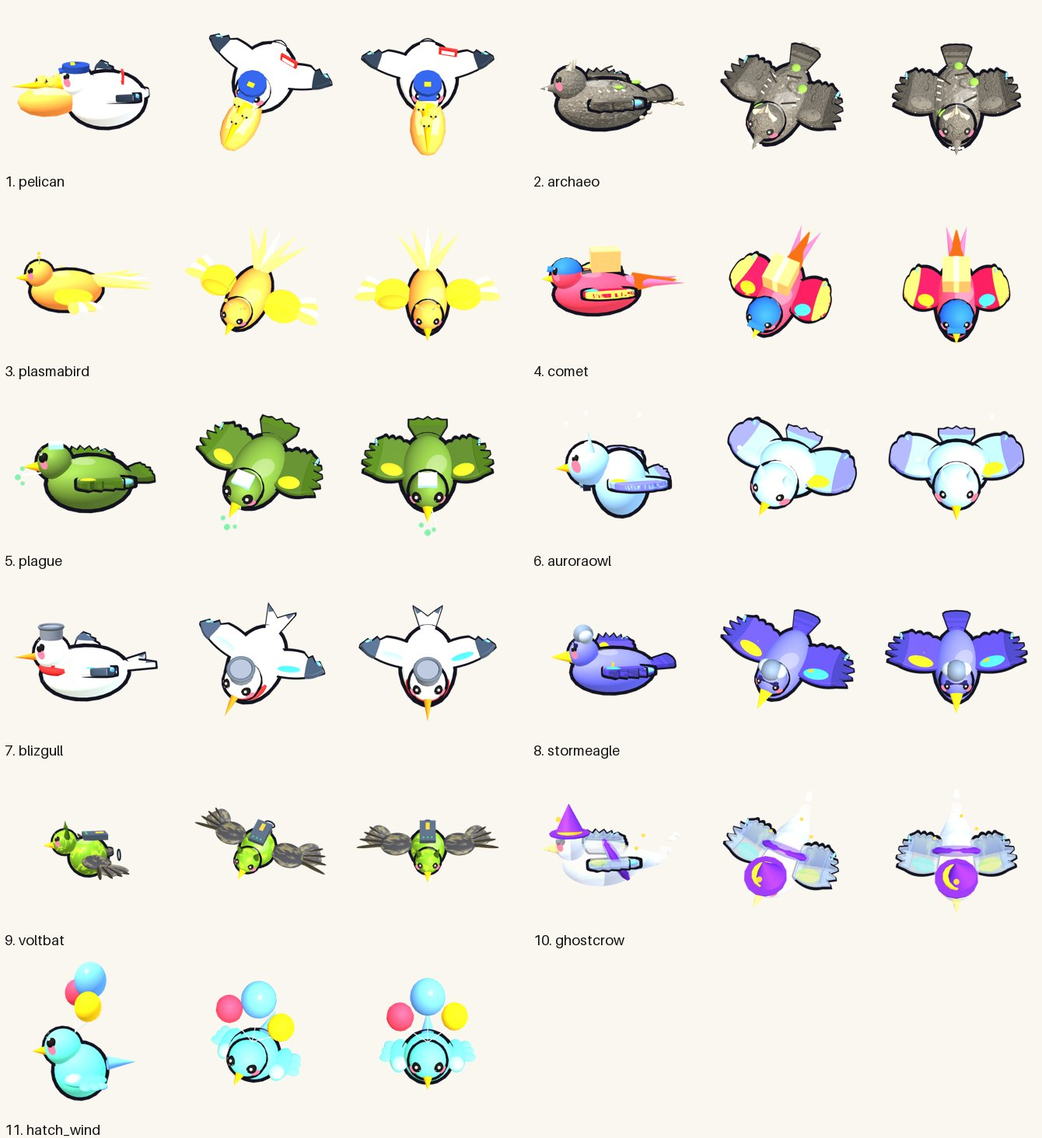
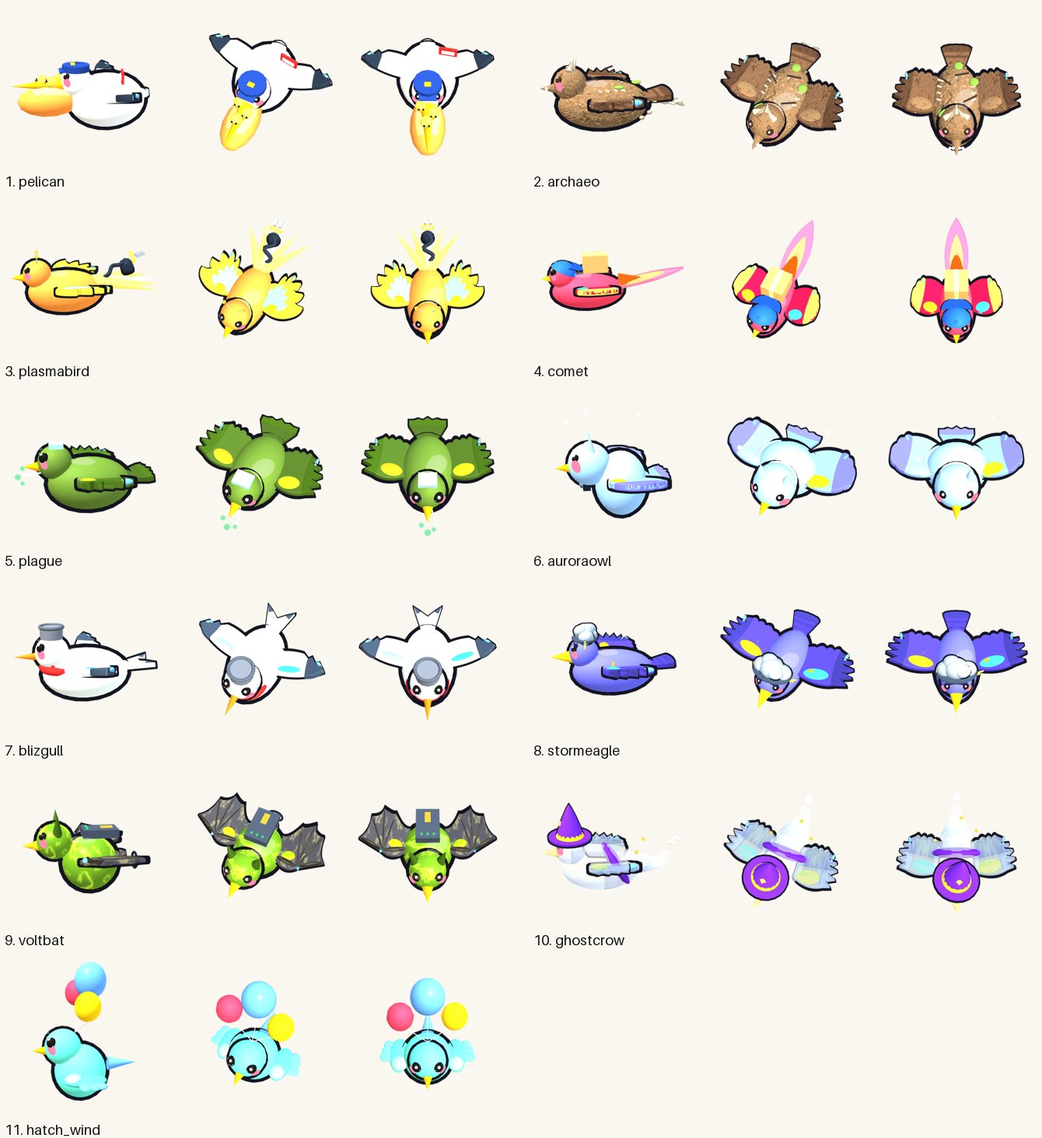
v17.8 색 다듬기: 공중 시조새 호박색 화석, 티라노 병아리 주황 + 디자인 문서 최종 시트
Claude-Session: https://claude.ai/code/session_01WdwmgQ1X9No8TXxhVpqQwz

diff --git a/index.html b/index.html
@@ -100,7 +100,7 @@
 <div id="tipm" class="dexm"><div class="dexh"><b>💡 게임 설명 · 팁</b><button id="tipx">✕ 닫기</button></div><div class="tipb"><div class="card"><b style="font-size:17px">📌 기본 설명</b><ul class="bs"><li>🎲 유닛을 보내면 상대 진영 입구 7칸 중 랜덤 1곳에서 출발하고, 보낼 때마다 4초마다 받는 인컴이 영구 증가해요.</li><li>🔮 속성 5종 중 2개를 골라요. 첫 속성은 무료, 두 번째는 300G이고 조합마다 전용 타워와 새가 열려요.</li><li>⏰ 7분부터 탈출한 새의 피해가 2배, 9분부터 3배가 돼요.</li><li>👀 도감 확인과 상대 정찰이 중요해요. 미니맵을 눌러 다른 진영을 보세요.</li></ul></div><div class="card"><b style="font-size:17px">🐦 새 능력 · 상성</b><ul class="bs"><li>🛡 <b>보호막</b>(백조·혜성 매·오로라 올빼미·야근 올빼미·근위 황새): 보호막이 남아 있는 동안 독·화상·감속이 안 통해요. <b>⚡ 뇌전 공격은 보호막을 2배로 깎아요.</b></li><li>❤ 새 체력바 색 = 그 새를 <b>보낸 사람의 팀 색</b>이에요(원형 지도 색과 같아요).</li><li>🦉 <b>부엉이 CCTV</b>: 은신 새를 보이게 하고, 범위 안 송골매는 회피를 못 해요(과속 단속 벌금 +15G).</li><li>🐝 벌새 떼는 강타형 타워 피해를 절반만 받아요 → <b>광역 타워</b>로 막아요. AI가 가끔 떼로 몰아 보내요!</li><li>💢 앵무새·😵 대머리 독수리·💩 갈매기는 타워를 잠깐 멈추거나 느리게 해요. 타워 머리 위 표시를 보세요.</li></ul></div><div class="card"><b style="font-size:17px">🪶 깃털 · 영웅 · 광장</b><ul class="bs"><li>🪶 깃털: 우승하면 난이도별 2~8개, 져도 2~4등 2개 · 5~8등 1개. 영웅을 여는 데 써요.</li><li>🐣 제작 영웅은 한 달 한정 판매예요. 🛒 상점에서 개발자 응원 팩·영웅 제작권을 살 수 있어요(플레이 스토어 앱에서만).</li><li>🏞 광장에 들어가면 광장 코드가 생겨요. 📨 초대로 링크를 보내면 친구가 바로 들어와요(최대 8명).</li></ul></div><div class="card"><b style="font-size:17px">🏹 타워 성격</b><ul class="bs"><li>⚡ <b>연사형</b>(공격 간격 0.8초 이하): 계속 쏠수록 공속이 최대 +50%까지 빨라지고, 적이 없으면 천천히 식어요.</li><li>💥 <b>강타형</b>(1.5초 이상): 3번째 공격마다 치명타 ×2, 맞은 새의 최대 체력 3%를 추가로 깎아요. 덩치 큰 새 담당!</li><li>☠ <b>독</b>: 맞을 때마다 독이 최대 5중첩. 광역 독 타워는 초록 독연기를 2.5초 남겨 지나가는 새에게 계속 독을 묻혀요.</li><li>🔥 <b>화상</b>: 중첩은 없지만 강하고, 불탄 채 쓰러지면 옆 새에게 불이 옮겨붙어요.</li><li>💰 강화 비용이 레벨마다 가파르게 올라요(1→2: 105%, 2→3: 252%, 3→4: 441%). 무작정 강화보다 배치가 중요해요.</li></ul></div>
 <h3>🪶 모드 · 깃털 코인</h3><ul class="bs"><li>🐥 <b>일반 모드</b>: 종족 없이 모든 새·타워를 공용으로 써요.</li><li>🪶 <b>승리하면 깃털 코인</b>을 얻어요. 난이도가 높을수록 많이 줘요.</li><li>🏰 코인을 모으면 <b>종족 모드</b>를 해금하고 종족 1개를 무료로 고를 수 있어요. 이후 종족은 코인으로 하나씩 해금해요.</li></ul>
 <h3>📌 게임 규칙 전체</h3><ul class="bs"><li>🏰 시작 전에 <b>종족</b>을 골라요. 종족마다 전용 타워 2종, 전용 새 2종, 고유 특성이 달라요. 상대 AI도 각자 다른 종족으로 나와요.</li><li>🎲 유닛을 보내면 상대 진영 입구 7칸 중 랜덤 1곳에서 출발해요.</li><li>💰 유닛을 보낼 때마다 4초마다 받는 인컴이 영구 증가해요.</li><li>⬡ 타일이 육각형이라 유닛이 6방향으로 길을 찾아요.</li><li>🔮 속성 5종(화염·빙결·뇌전·폭풍·독) 중 2개를 골라요. 첫 속성은 무료, 두 번째는 300G예요.</li><li>✨ 두 속성의 조합마다 전용 타워와 새가 열려요 (10가지 조합).</li><li>🌟 속성 2개를 고르면 조합 스킬을 1500G에 해금할 수 있어요 (미니맵 위 버튼).</li><li>⏰ 7분부터 탈출한 새의 피해가 2배, 9분부터 3배가 돼요.</li><li>📖 <b>도감 확인은 필수예요!</b> 새·타워의 숨은 능력, 속성 조합, 수상한 알의 비밀까지 도감에서 확인하세요.</li><li>👀 <b>상대 정찰도 중요한 전략이에요.</b> 미니맵을 눌러 다른 진영의 미로와 타워를 보고, 잘 뚫릴 새를 골라 보내세요.</li><li>🚫 첫 줄·마지막 줄에는 건설할 수 없고, 길을 완전히 막을 수 없어요.</li><li>🎯 적을 처치하면 유닛 가격의 10%를 보상으로 받아요.</li></ul>
-<h3>🛠 업데이트 내역</h3><details class="card" open><summary><b>🛠 패치 노트</b> <small class="m">(눌러서 펼치기)</small></summary><ul><li><b>v17.7</b> 🎩 칠면조는 금 버클 순례자 모자, 철거반장 두루미는 줄무늬 안전모, 유령까마귀는 별 달린 마법사 모자로 새로 만들었어요. 🧢 알바트로스·혜성 매는 모자를 거꾸로 써서 얼굴이 잘 보여요.</li><li><b>v17.6</b> 🔥 불사조·플라즈마새 날개를 불꽃 모양으로, 🦇 볼트박쥐 날개를 진짜 박쥐 날개(뼈+막)로 바꿨어요. 이제 모든 공중 새가 새 날개를 써요. 🪶 앵무새는 빨강·파랑 긴 꼬리깃, 혜성 매는 반짝이는 혜성 꼬리가 생겼어요.</li><li><b>v17.5</b> ☁ 천둥새·폭풍독수리의 먹구름 모자를 몽글몽글한 구름(외곽선·작은 번개)으로, 🔌 천둥새·플라즈마새 꼬리의 회색 벽돌을 꼬불꼬불 전선이 달린 플러그로 바꿨어요.</li><li><b>v17.4</b> 🪶 공중 새 날개를 종류별로 새로 만들었어요 — 맹금형(까마귀·송골매·역병 까마귀·폭풍독수리·시조새·유령까마귀), 바다새형(알바트로스·눈보라 갈매기·펠리컨), 둥근 작은 새형(비둘기·앵무·혜성 매·오로라 올빼미). 날개에 있던 하늘색 팀 띠는 모두 빼고 날개 끝 깃 하나만 팀 색으로 남겼어요.</li><li><b>v17.3</b> 🦅 독수리·북극해적갈매기 날개를 맹금 날개로 바꿨어요 — 넓고 짧은 한 장에 끝이 손가락처럼 벌어진 깃 5개(해적 칼은 그대로 날개 끝에). 🪶 공중 새 꼬리도 새로 만들었어요: 부채형(비둘기·까마귀 등)·제비꼬리형(갈매기·알바트로스 등)·맹금형(독수리·송골매 등, 끝 띠무늬)·짧은형(펠리컨·박쥐). 머리 뒤 '토끼 귀'처럼 보이던 하늘색 팀 색 깃은 꼬리에서 뺐어요.</li><li><b>v17.2</b> 🌊 폭격갈매기 날개를 새로 만들었어요(시범) — 한 장으로 된 길쭉한 바다새 날개에 검은 날개 끝·검은 외곽선, V자로 살짝 들어 올렸어요. 팀 색은 날개 끝 깃 하나에만.</li><li><b>v17.1</b> 🗡 북극해적갈매기 칼을 새로 만들었어요 — 휜 은색 해적 칼(금 가드·나무 손잡이·검은 외곽선)을 오른 날개 끝에 쥐고 같이 퍼덕여요. 모자는 조금 작게, 뒤로 옮겨 얼굴이 보여요.</li><li><b>v17.0</b> ⚔ 수비 오프닝 알파고가 달라졌어요 — 처음 40~50초는 칠면조로 인컴을 열고, 그다음 초반에 새를 잘 잡는 공격형 타워(독감 물약·용암·정전기·알 새총 등)를 먼저 지어요. 파리지옥·얼음 알 같은 서포트 타워는 나중에.</li><li><b>v16.9</b> 🆕 새 알파고 10종(전봇대 줄·독 덩굴·감속 미로·3줄 요새·태양 화염·뇌운 폭풍·알 폭격·플라즈마 장인·대형 새 러시·빙뢰 첨탑) — 어려움·헬에 매 판 2~3명, 알파고 난이도엔 가장 강한 3종이 섞여요. 알파고마다 초반 오프닝이 달라요(전봇대·벽 0개·수비 타워·해적·칠면조·알·비둘기). 숙련 이상 AI는 타워를 Lv4까지 올려요(미로를 먼저 짓고). 겹치던 알파고 6종은 정리했어요.</li><li><b>v16.8</b> 🥚 알파고가 알·부화 병아리에 뚫리면 광역·연쇄 타워·참새 전봇대·감속 타워를 더 짓고, 평소에도 감속과 전봇대를 조금 더 좋아해요(사람 기록으로 210판 학습, 알파고 난이도만).</li><li><b>v16.7</b> 📋 알파고 기록이 더 자세해졌어요 — 30초마다 8명의 목숨, 내 진영에 들어온·뚫고 간 새 종류, 판 끝에 타워 종류별 피해량·개수까지 남고, 보관이 최근 20판으로 늘었어요(알파고 학습용).</li><li><b>v16.6</b> 🦃 알파고가 초반 3분을 사람처럼 써요 — 알파고마다 오프닝이 달라요(🏴☠ 해적갈매기 러시 · 해적 1마리 후 칠면조 · 🥚 알 타워 철거 후 칠면조 · 칠면조만 · 싼 타워 2개+칠면조 · 가성비 새) · 속성 조합도 서로 겹치지 않아요. 목숨이 80 아래로 떨어지거나 인컴이 충분해지면 수비로 바꿔요. 알파고 난이도에서만.</li><li><b>v16.5</b> 🧬 알파고 난이도 설명에 지금까지 학습한 판 수(약 12,400판: AI끼리 대국 + 사람 플레이 기록)를 넣었어요.</li><li><b>v16.4</b> 👆 알파고가 사람처럼 "꾹 누르기"를 해요 — 새를 고르면 남는 돈을 다 쓸 때까지 같은 새를 연속으로 보내요(싼 알은 수십 마리씩). 수비가 모자라면 타워를 먼저 지어요. 다른 난이도는 그대로예요.</li><li><b>v16.3</b> 🤖 알파고가 더 부지런해졌어요 — 0.4초 → 0.3초마다 판단하고 한 번에 2가지씩(분당 행동 약 58번 → 약 70번). 다른 난이도는 그대로예요.</li><li><b>v16.2</b> 🤖 알파고 난이도만 학습 — 사람 플레이 기록 7판을 그대로 따라 하는 연습 상대와 붙어 진화한 「알파 사람 사냥꾼」 등 8종이 먼저 나와요(연습 상대 우승 28판 중 13번 → 1번). 알파고 AI도 이제 사람처럼 수상한 알 연구(부화 등)를 써요(공평하게). 다른 난이도는 그대로예요.</li><li><b>v16.1</b> 🗺 타워를 고르면 설치 안내가 떠요 — 초록 테두리 칸은 지을 수 있는 곳, 빨간 칸은 지으면 길이 막히는 곳, 노란 점선은 지금 새가 지나갈 길(첫 탭 미리보기 칸을 놓았을 때 길로 바로 다시 그려져요). ⏸ 메뉴에서 끌 수 있어요. 다른 진영을 구경할 때는 미니맵에 🏠 내 진영이 나오고, 누르면 바로 돌아와요.</li><li><b>v16.0</b> 📱 폰 조작 2차 — 붉은 알림이 게임판 첫 줄을 가리지 않게 아래로(⏸ 메뉴에서 아래·위·끄기), 유닛 카드를 길게 누르면 연속 전송, 타워 카드를 길게 누르면 정보, 효과음·배경음악 볼륨 따로, 목숨 30 이하면 화면 테두리 빨갛게+경고, 작은 폰에서 상점 카드 크게.</li><li><b>v15.9</b> 📱 폰 조작 개선 — 뒤로가기·⏸를 누르면 일시정지 메뉴(계속하기·설정·나가기 두 번 확인), 앱을 내리면 자동 일시정지, 게임 중 화면 꺼짐 방지, 타워 2단계 설치(첫 탭 미리보기+사거리 원, 한 번 더 누르면 설치 · 메뉴에서 끄기), 진동 피드백, 버튼 크게, 마지막 난이도 기억, 실수로 화면 확대 방지, 구형 폰에서 깨지던 이모지 교체.</li><li><b>v15.8</b> 📼 알파고 난이도 플레이 기록 — 내가 지은 타워·보낸 새·속성을 폰에만 기록하고(최근 10판), 결과 화면 '📋 내 기록 보내기'로 파일을 보낼 수 있어요. 사람 전략을 배우는 알파고 학습에 써요.</li><li><b>v15.7</b> 🎯 쉬움·일반·숙련 AI의 초반 수비가 똑똑해졌어요 — 완성될 미로를 미리 계산해, 길을 많이 덮는 자리에 공격 타워 2개를 먼저 띄엄띄엄 놓고 그다음 벽으로 미로를 채워요(초반 3분 누수 약 20~40% 감소).</li><li><b>v15.6</b> 🧬 알파고 5세대 학습(660판) — 약했던 알파 안정형·방해꾼 특공대·빙결뇌전·이자형·장인이 상위 전략의 유전자를 배워 강해졌고(안정형 6.9등→3.0등, 장인 5.2등→2.3등), 상위 전략을 섞은 새 성향 「알파 5세대」가 나와요. 일반·숙련·어려움·헬 AI도 새 노하우를 배워요.</li><li><b>v15.5</b> 💀 탈락해도 새들이 한꺼번에 다음 판으로 순간이동하지 않아요 — 탈락한 판의 타워는 그대로 남아 공격만 멈추고, 새들이 걸어서 지나간 뒤 다음 판으로 넘어가요(몰림 완화).</li><li><b>v15.4</b> 🧱 후반 AI 헛손질 고침 — 두루미 복구가 빈칸 채우기로 지은 타워까지 부수고 다시 짓던 반복을 없앴고(10분 뒤 철거 4분의 1로), 빈칸 채우기는 벽 대신 길을 덮는 공격 타워만 지어요. 돈이 2만 넘게 쌓이면 새부터 보내고, 재배치 미로는 10분까지만.</li><li><b>v15.3</b> 🦩 새 독 속성 새 「플라맹독」(540G·지상·외다리): 4초마다 근처 타워에 산성 침을 퉤! → 그 타워 공격력 -30%(4초) · 흡혈박쥐새는 은퇴했어요</li><li><b>v15.2</b> 🦇 박쥐 둥지 타워를 없앴어요</li><li><b>v15.1</b> 🏰 종족 모드는 잠시 닫았어요(준비 중) · 🛒 상점 판매도 잠시 닫았어요</li><li><b>v15.0</b> 🐣 수상한 알은 보낸 지 6초 뒤 부화 · 🔋 찌릿 병아리: 타워 마비 대신 이동 속도가 가장 빨라졌어요(1.8→2.4)</li><li><b>v14.9</b> 🧱 헬·알파고 AI 빈칸 채우기 버그 수정(타워 42개 미만이면 안 채우던 문제) · 채우기 시작 시각은 AI 성향마다 달라요(수비형은 3분쯤부터, 공격·인컴형은 15분쯤부터)</li><li><b>v14.8</b> 🥚 수상한 알: 보낼수록 체력 +1이 이제 끝없이 쌓여요 · 🐣 부화는 판 중간 대신 보낸 지 2초 뒤(미로에서도 부화) · 부화한 병아리는 알 보너스 체력의 2배를 더 받아요 · 속성이 2개면 두 속성 병아리가 섞여 나와요</li><li><b>v14.7</b> 🏴☠ 북극해적갈매기 새 디자인: 둥근 해적 모자(금테·물고기 뼈 문양)·안대·휜 회색 부리·큰 해적 칼·해골 버클 허리띠와 금화 주머니·흰 날개깃</li><li><b>v14.6</b> 🏗 철거반장 두루미 대응: 흐트러진 미로를 다시 고쳐요(숙련 가끔·어려움 자주·헬·알파고 항상) · 두루미가 오면 미로 타워를 3레벨로 올려 못 들게 · 알파고는 복구할지 빈칸을 채울지 스스로 판단 · 🧱 헬·알파고 AI는 타워 한도 없이 빈칸까지 채워요(어려움 60·숙련 50) · 💰 돈이 넘치면 AI가 한 번에 더 많이 써요</li><li><b>v14.5</b> 🧠 AI가 상황을 보고 판단해요: 목숨을 잃으면 수비 모드·후반엔 공격 조금 더(상황별 전략) · 어떤 새에 뚫렸는지 기억해 그 새를 막는 타워와 출구 쪽 자리를 고름(실패에서 배우기) · 🔀 새 AI '유동 수비': 초반 중앙에 타워 4개 → 인컴 340쯤 미로로 전환 → 새는 비율을 보고 인컴/수비 선택(숙련 AI가 배움) · 새 알파고 '알파 상황판단'·'알파 유동 수비'</li><li><b>v14.4</b> 🧱 알파고 새 수비 배치: 타워 2줄·3줄 가로 뱀, 2·3줄 섞은 뱀, 2줄 뱀+직선 통로 (긴 미로와 섞어서 매 판 다르게)</li><li><b>v14.3</b> 🦉 AI가 CCTV를 미로 통로에 지어 미로를 망가뜨리던 문제 수정(이제 미로의 벽 자리에만, 벽을 CCTV로 바꾸기도 함) · ⬆ AI는 미로를 다 쌓은 뒤에 업그레이드·벽 교체를 해요</li><li><b>v14.2</b> 🧠 AI 수비가 똑똑해졌어요: 🦉 CCTV를 서로 떨어뜨려 배치 · 🧱→🏹 미로를 다 쌓으면 길 옆 벽을 공격 타워로 교체 · ♻ 쓸모없는 싼 타워를 철거하고 강한 타워로 재건 · ⬆ 길을 많이 덮는 타워부터 조금씩 업그레이드 · 🎯 들어오는 새(공중·보호막·떼·튼튼)를 보고 타워 선택 · 🤖 새 알파고 '알파 전략가'</li><li><b>v14.1</b> 🏁 결과 화면: 다시 도전·나가기·관전 버튼이 4초 뒤에 나와요(결과 먼저 보기) · 💰 총 획득 골드(인컴+처치 보상 등, 시작 돈 제외)를 결과 표와 요약에 표시</li><li><b>v14.0</b> 🤖 AI 개편: 대형 새 모으기 없앰(1~2분씩 멈추던 문제) · AI가 같은 새만 사지 않고 여러 새를 섞어 보냄 · 닭둘기(비둘기)·까마귀도 보냄 · 특수 전략 알파고 6종 추가(🦃 칠면조 철거·🕊 닭둘기 부대·🌈 잡식 인컴·🥚 수상한 알·🛡 보호막 기사단·🎭 방해꾼 특공대) · 어려움·헬 이자형 AI는 시작하자마자 알 타워를 철거하고 칠면조를 보내요</li><li><b>v13.9</b> ❄🌪 약한 타워 공격력 1.3배: 얼음 알 15→20 · 산들 풍차 14→18 · 비눗방울 기계 30→39 · 눈폭풍 소용돌이 6→8</li><li><b>v13.8</b> 🥚 수상한 알이 보낼수록 단단해져요: 알 1개 보낼 때마다 다음 알 체력 +1(최대 +100, 보낸 사람마다 따로 셈) · 🦚 공작새 치유가 체력 높은 새의 체력을 깎던 문제 수정</li><li><b>v13.7</b> 💰 AI 돈 보너스 줄임(알파고는 나와 같은 돈) · 🤖 3세대 알파고(뇌전+화염 공격형) · 🦩 AI가 후반에 돈을 모아 펠리컨·시조새 같은 대형 새를 보내요 · 🏗 철거반장 두루미가 타워를 들어 올리면 그 칸으로 길이 뚫려요!</li><li><b>v13.6</b> 🎨 속성 조합 10개마다 알파고를 따로 학습(알파 25종) · 모든 AI가 자기 속성 조합 알파고에게 배워요</li><li><b>v13.5</b> ☠⚡ 알파 독뇌전(독 앞·파리지옥 중간·뇌전 뒤 + 과자 배치) · 🔥 알파 불사조 테러(불사조 공격형) · 알파고 모드 속성이 다양해졌어요 · 🏴☠ 해적 선장 AI(초반 해적갈매기)</li><li><b>v13.4</b> 🎓 성향별 알파고 5종(알파 이자형·안정형·러시·공중함대·장인) — 일반 AI는 자기 성향 알파고에게 배워요</li><li><b>v13.3</b> 🎓 알파고가 더 공부했어요(자기 대국 2,160판, 옛 알파고 상대 우승 25%) · 알파고가 다른 AI를 가르쳐요: 일반 30% · 숙련 60% · 어려움·헬 100% 노하우 전수(쉬움은 그대로)</li><li><b>v13.2</b> 🤖 <b>알파고 모드</b>: AI끼리 1,440판을 붙여 스스로 진화한 AI 7명과 대결(우승 깃털 15) · 진화 AI 성향 8종(알파 눈사태·킬존·미로술사…)이 어려움·헬에도 섞여 나와요</li><li><b>v13.1</b> 🎚 <b>난이도 개편</b>: 모두 한 단계씩 내려가고(옛 일반=쉬움 … 옛 헬=어려움) 🔥 <b>새 헬</b>이 생겼어요 · 🐦 <b>새 대개편</b>: 🦜 앵무새는 욕해서 타워를 1.5초 삐지게(💢) · 🦤 도도새는 30% 확률로 "멸종 거부!" 부활 · 🦅 송골매는 공격 30% 회피, 부엉이 CCTV에 걸리면 📸과속 단속(벌금 +15G) · 🦩 타조는 그랑 주떼 점프 · 🐦 갈매기 똥 폭격(타워 공격 느려짐) · 🏴☠ <b>북극해적갈매기</b>(칼!) · 🦉 야근 올빼미는 이제 걸어 다니며 ☕커피로 보호막 충전 · 🦅 대머리 독수리 가발 날리기(번쩍! 타워 눈부심 😵) · 🛡 <b>보호막 개편</b>: 보호막 동안 독·화상·감속 면역, ⚡번개 공격엔 2배로 깨져요 · ❤ 새 체력바 색 = 보낸 사람 팀 색 · 🎨 불사조·빙독 펭귄·유령 까마귀·천둥새·전기 박쥐 질감, 천둥새 번개 날개 · 🦖 시조새 돌 화석 모습 · 🤖 AI가 정찰해서 공중 새·보호막 새를 쓰고, 🐝 <b>벌새 떼 폭탄</b>을 몰아 보내요 · 🏞 <b>광장 개편</b>: 속성 5구역 + 스킬 이펙트, 광장 코드로 친구 초대(최대 8명) · 🪶 진 판도 등수대로 깃털 1~2개 · 🛒 깃털 상점(개발자 응원 팩) · 🐣 제작 영웅(3D 삐약이·AI 기자, 한 달 한정) · 🎨 영웅 꾸미기(색·모자·얼굴)는 없어졌어요</li><li><b>v13.0</b> 🐥 게임판에 내 영웅 등장! 내 판 왼쪽 아래에 서 있고, 다른 판을 보러(정찰) 가면 영웅도 같이 걸어가요(👀 이름표). AI도 가끔 정찰 와요 · 🪶 영웅 깃털 해금(기본 3마리 무료, 테스트 기간엔 전부 열림) · 🌐 8인 대전 AI 난이도 선택 · 🏰 종족 모드는 베타로 따로, 종족은 전용 창에서 골라요</li><li><b>v12.9</b> 🎞 픽셀 아트 효과 업그레이드(pixelfx): 시조새 착지 땅 내려찍기 · 화염 폭풍 불기둥 · 폭풍의 눈 토네이도 · 빙결 얼음 깨짐 · 독 구름 · 플라즈마 낙뢰</li><li><b>v12.8</b> 🐦 새로운 고급 새 2종! 🏗 <b>철거반장 두루미</b>(4800G): 안전모 쓰고 멈춰서 타워를 집어 4초간 머리에 이고 걸어가요(그동안 공격 불가, 원래 자리엔 공사 고깔). Lv.2 이하는 근처 빈칸으로 옮겨 버리고(미로는 절대 안 막아요), 그 이상이거나 빈칸이 없으면 제자리에 · 🦖 <b>시조새</b>(5500G, 탈출하면 라이프 -21): 1억 5천만 년 만의 외출! 체력이 절반이 되면 깃털이 빠져 쿵 착지(주변 타워 2초 기절), 이후 털 빠진 공룡처럼 땅으로 달려요</li><li><b>v12.7</b> 🌐 온라인 손님 화면 보강: 🥚 수상한 알 개수가 세어지고 알 연구(부화·쌍둥이·황금 알…)도 적용돼요 · 오른쪽 위 미니맵에 내 새가 간 판과 진행/탈출/격추 수가 보여요 · 원형 지도에서 사람 자리는 아이디 첫 글자(노란색)로 표시</li><li><b>v12.6</b> 🌐 온라인 대전 보강: 연결 경로 찾기 서버 추가(직접 연결이 안 되면 중계 서버로), 게임 중 끊기면 자동으로 다시 연결해서 내 자리를 돌려받아요(그동안은 AI가 대신), 연결이 오래 걸리면 안내, 방장 폰이 보내는 데이터 약 40% 줄임</li><li><b>v12.5</b> 🚫 종족전에서 종족 규칙으로 못 쓰는 타워·새가 상점에서 사라지지 않고 '종족 제한' 카드로 보여요(누르면 이유 안내) · 종족 고르는 화면에도 못 쓰는 것 표시</li><li><b>v12.4</b> 🏰 종족 밸런스: 🦅 맹금 군단 새 가격 할인 -8% → -5%, 타워 가격 +12% → +16% · 🌳 숲 지킴이 타워 사거리 +0.4 → +0.5 · 🏰 둥지 연합 타워 가격 -8% → -12%</li><li><b>v12.3</b> 📢 마스코트 <b>AI</b>(Avian Influencer, 조류 인플루언서) 등장! 로비에서 둥실 떠서 소식을 전하고(누르면 한마디), 튜토리얼 안내, 조합 스킬 해금·탈락 속보, 광장 생중계, 결과 화면 인터뷰까지</li><li><b>v12.2</b> ⚖ 수비가 더 든든해졌어요: 새를 막으면 받는 처치 보상 10% → 20%, 새를 보내서 오르는 인컴은 10% 줄었어요 · 🛡 안정형 AI가 업그레이드에 돈을 덜 쏟고 똑똑하게 써요</li><li><b>v12.1</b> 🪴 새 독 속성 타워 '꿀꺽 파리지옥': 지상 새를 덥석 물어 묶고 독! 업그레이드마다 머리가 늘어 최대 3마리, Lv.4는 거의 죽은 새를 꿀꺽 · 🦇 박쥐 둥지는 공용 타워로</li><li><b>v12.0</b> 🐣 마스코트 'AI'(드론 메카 병아리) 등장! 피해 배수 30초 전과 바뀔 때 현수막을 끌고 날아와 알려 줘요 · 🔢 피해 숫자는 큰 피해·치명타만 · 💬 말하는 새는 한 번 가는 동안 3번만</li><li><b>v11.9</b> 🧠 AI 성향 35종+ (속성 조합×이자형·안정형·밸런스형, 수상한 알·공작새 치유·올인 타이밍 전략), 🔥헬에서만 정찰 카운터·킬존·재배치 미로 AI · 🦃 칠면조 '약하지만 인컴 높은 새'로 · 🩰 발레 타조 피루엣</li><li><b>v11.8</b> ✨ 조합 스킬 10종에 픽셀 이펙트(번개·증기·불꽃·얼음·눈덩이·감옥·회오리·독전류·독안개) · 🐦 공중 새 깃털 날개·몸 비율 · 🦤 각설이 도도새 타령 · 화면 대비 다듬기</li><li><b>v11.7</b> 🧸 로비·광장 영웅 삐약이를 AI 3D 모델로(시험) · 📘 첫 판 튜토리얼(설명 화면에서 다시 보기) · 🗑 설명 화면에 '처음부터 다시' 초기화 버튼 · 🦸 영웅 새 다듬기(공중 새도 서 있게, 외곽선·모자 겹침 정리) · 🎨 타조·회장닭·앵무새·펠리컨·악어새·오리·올빼미 등 3D 모습 다듬기</li><li><b>v11.6</b> 🔊 효과음을 실제 녹음 소리로: 버튼 딸깍, 건설 나무 소리, 철거 동전 짤랑, 새 쓰러짐 타격음, 라이프 피해 펀치, 탈락·후반 경고 종소리, 부화 알 깨짐, 승리·패배·해금 짧은 음악. 효과음: Kenney 오디오 팩 (CC0, kenney.nl)</li><li><b>v11.5</b> 🏝 게임판이 진짜 3D 육각 타일로! 진영마다 지형이 달라요: 🌿풀밭 · 🏜사막 · ⛰바위산 · 🪵흙 · 🏝바닷가 섬. 게임판 바깥엔 숲·언덕·산·바다·섬 타일 풍경. 3D 타일: Kenney Hexagon Kit (CC0, kenney.nl)</li><li><b>v11.4</b> 🏁 게임이 끝나면 <b>결과 표</b>: 8명의 등수(🥇🥈🥉)·인컴·상대에게 준 라이프 피해·막은 새·버틴 시간을 한눈에 (관전 후·온라인에서도). 🪶 공중 새 인컴 20% 하향 — 미로를 무시하는 대신 돈을 덜 벌어요</li><li><b>v11.3</b> 🐝 새 유닛 <b>윙윙 벌새 떼</b>(360G · 지상): 벌+벌새 모습, 5~7마리 떼로 등장, 강타형 타워(공격 간격 1.5초 이상)의 피해를 절반만 받아요 — 광역·연사 타워에 약해요. 🚌 새 유닛 <b>만원 버스 펠리컨</b>(3000G · 공중): 격추되면 부리 주머니에서 승객 새 8마리가 쏟아져 그 자리부터 걸어가요</li><li><b>v11.2</b> 🎨 만화풍 전투 화면: 상점이 3D 초상화 카드로(등급별 색 · 영웅/전설 리본, 선택하면 통통), 타워가 맞힐 때 피해 숫자가 톡톡(치명타는 노랗게), 큰 새 격추 시 "💥 격추!" 배너, 강화 타워 머리 위 ★별 뱃지, 모든 새에 만화풍 외곽선. 휴대폰이 느려지면 피해 숫자는 자동으로 꺼져요</li><li><b>v11.1</b> 🧩 난이도별 AI 미로: 🐓숙련 = 넓은 가로 뱀(길 ×1.9) · 🦅어려움 = 넓은 세로 뱀·대각선 뱀·빗살 중 하나(×2.2~2.6) · 🔥헬 = 가로 뱀·홀수 줄 가로 뱀·혼합·세로 뱀 중 하나(×2.5~3.0). 미로는 AI마다 좌우가 달라요. 헬 AI는 미로에 방해되면 가운데 알 타워도 철거해요. 미니맵으로 상대 미로를 정찰해 보세요!</li><li><b>v11.0</b> 🐍 <b>어려움·헬 AI가 뱀 모양 미로</b>를 짜요: 가로 줄을 한 줄 걸러 쌓고 끝 칸을 번갈아 비워 새가 좌우로 왕복하게 만들어요(AI마다 방향이 달라요). 시뮬레이션에서 이 방식은 우승 확률이 일반 AI의 약 2.7배(34%)였어요. 공중 새와 황새로 뚫어 보세요!</li><li><b>v10.9</b> 🎨 디자인 다듬기: 게임 화면(위쪽 바·골드 줄·탭·상점 버튼·정보 줄·옆 패널), 결과창, 도감·설명 화면을 로비와 같은 만화풍(굵은 테두리 + 그림자)으로 통일, 상점 글씨 키움. 📱 앱 아이콘(왕관 병아리)과 홈 화면에 설치하기(PWA) 지원</li><li><b>v10.8</b> 🌐 <b>8인 온라인 대전 (베타)</b>: 모드 선택 → 8인 온라인 대전 → 방 만들기로 5자리 방 코드와 초대 링크를 만들고, 친구는 코드를 넣거나 링크를 눌러 참가해요. 빈자리는 AI가 채워요. 방장 휴대폰이 게임을 계산하니 방장은 화면을 켜 두세요. (일반 모드만, 수상한 알 연구소는 방장만)</li><li><b>v10.7</b> 🐊 새 유닛 <b>악어 치과의사 악어새</b>(1600G · 타조 다음으로 튼튼): 악어를 타고 와요. 체력이 35% 아래로 떨어지면 악어가 화나서 1.6배 빨라져요(입을 쩍쩍 벌려요). 🧹 쓸데없는 몸 고리 정리: 종족 새 8종·백조·천둥새·불사조·태풍 독수리·오로라 덕후의 고리 삭제(팀 색 목걸이는 유지, 보호막은 체력바 색으로 표시)</li><li><b>v10.6</b> 🐣 부화 병아리 8종 새 모습: 둥근 병아리 몸 + 🐣 갓깬 삐약이(물음표) · 🍳 맥반석(구운 껍데기·양머리 수건) · 🍦 아이스(와플콘·소프트아이스크림) · 🔋 찌릿(정전기 머리) · 🎈 풍선(풍선 3개, 가운데는 팀 색) · 💨 방귀(기저귀·방귀 구름) · 🌟 황금(황금 껍데기·반짝이·동전) · 🦖 티라노(이빨·배 무늬)</li><li><b>v10.5</b> 🎭 새 이름·모습 변경: 🩰 <b>발레리나 지망생 타조</b>(튜튜·티아라·토슈즈) · 🎩 <b>알부자 회장닭</b>(실크햇·외알 안경·금목걸이) · 🛟 <b>피서 중인 튜브 오리</b>(튜브·선글라스·밀짚모자) · 🦜 <b>욕쟁이 앵무새</b>(날아가며 말풍선으로 세 마디!) · 🥁 <b>각설이 도도새</b>(새끼줄 머리띠·누더기·깡통·엿가위, 품바 춤) · 🥚 <b>펭귄알 소매치기</b>(남극 도둑갈매기, 펭귄알을 훔쳐 날아요)</li><li><b>v10.4</b> 👀 탈락해도 바로 끝나지 않아요: <b>관전하기</b>를 누르면 남은 AI들의 대결을 끝까지 볼 수 있어요(미니맵으로 진영 전환, 🚪 버튼으로 언제든 나가기). 탈락 화면에서 관전하기 · 다시 도전 · 나가기 중 선택</li><li><b>v10.3</b> 🎨 새 디자인 대개편: 나는 새 날개를 새 몸 색의 깃털 날개로(팀 색은 날개 끝), 땅 새는 몸 옆에 접힌 날개. 🪵 딱따구리(빨간 모자·끌 부리·쪼기 동작) · 💪 근육 타조(털 뭉치 몸·챔피언 벨트) · 🐧 펭귄 삼형제 · 🦤 도도 · 🦢 백조(S자 목) · 🦃 칠면조(중절모·부채 꼬리) · 🐥 병아리 · 🥚 수상한 알(줄무늬 양말 다리로 아장아장) 새 모양. 🦩 <b>육아휴직 황새</b>: 긴 다리로 타워를 넘어 직진. 종족 새 8종 별명 추가</li><li><b>v10.2</b> ✈ 바람 속성 2단계 타워 교체: 강풍 선풍기 → <b>비눗방울 막대</b>(새를 방울에 가둬 1.4초 둥실 띄우고, 터질 때 2배 피해 · 갇힌 지상 새는 대공 타워에도 맞아요 · 넉백 면역 새는 안 갇혀요). 진화: 비눗방울 기계 → 비눗방울 대포 → 거품 목욕탕 대왕</li><li><b>v10.1</b> 🪶 일반 모드 + 종족 모드 통합: 시작 화면에서 모드 선택, 일반 모드 승리로 깃털 코인 획득 → 코인으로 종족 모드 해금(종족 1개 무료 선택) → 이후 종족은 코인으로 해금. 첫 화면 간소화(기본 설명 4줄 + 상세보기·팁)</li><li><b>v10.0</b> 🏰 종족전: 오리지널 새 종족 4종(🏰둥지 연합 · 🦅맹금 군단 · 🌙황혼 깃털단 · 🌿숲 지킴이), 종족별 고유 특성·전용 타워 8종·전용 새 8종, 종족 도감 탭, AI도 종족을 골라 싸워요</li><li><b>v9.11</b> 🎚 난이도 5단계(🐣쉬움 · 🐥일반 · 🐓숙련 신규 · 🦅어려움 · 🔥헬). 🧬 타워 진화: 강화 Lv.1~4마다 이름과 모양이 바뀌어요(예: 알까기 새총 → 새권총 → 새개틀링건). 도감에서 진화 단계 확인. 🎨 타워 33종 모양을 이름에 맞게 새로 디자인. 정보 패널 높이 고정(보드 흔들림 수정), 부엉이 CCTV는 감지 범위 표시</li><li><b>v9.10</b> 🎚 난이도 4단계, 길찾기 좌우 편향 수정, 도감·정찰 안내</li><li><b>v9.9</b> 🍤 과자 연속 5개, 📹 부엉이 CCTV(은신 감지)</li><li><b>v9.8</b> 🔗 참새 전봇대: 지상 ×0.8 · 공중 ×2.4 감전</li><li><b>v9.7</b> 🎯 내 새 추적 미니맵(오른쪽 위)</li><li><b>v9.6</b> 🍤 과자 뿌리개, 🔗 참새 전봇대, 🥅 잠자리채 그물포 공용 타워 3종</li><li><b>v9.5</b> 🏢 스튜디오 첫 스프린트: 🔊 효과음·칩튠 배경음악, 🎨 새 표정·맵 장식·파티클, 🥚 수상한 알 연구소(한 판 단위 해금), 🧪 QA 수정</li><li><b>v9.4</b> 📖 3페이지 카드 도감, 🎭 웃긴 이름과 개그 설명</li><li><b>v9.3</b> 메모리 누수·경제 폭주 수정, 맵 7×16, 넉백 쿨다운, 알 강화 표시, 조합 스킬 10종, 5초 카운트다운, 500판 밸런스(평균 8분 50초)</li><li><b>v9.2</b> 🐛 AI 미작동 버그 수정, 🔮 속성 2개 선택 + ✨ 조합 타워·새 10종, 상점 6칸</li><li><b>v9.1</b> 🔮 속성 테크 5종, 새 9종 추가(거위·까마귀·딱따구리·백조·공작·송골매·황제펭귄·알바트로스·천둥새), 📖 조류 도감</li><li><b>v9.0</b> ⬡ 육각 타일 맵(6방향 길찾기), 유닛 체력 2배 밸런스, AI 7명 시뮬레이션 100판 학습</li><li><b>v8.3</b> 보드 확대·미니맵 우하단 이동·하단 UI 가림 수정, AI 개성화(매 판 목표·건설 순서 변화, 수시 기분 전환, 위협 반응), 8분에 타이탄 6마리를 막는 방어력 목표(화면의 🛡 100% = 목표), 정찰 중 타워 상점을 누르면 내 화면으로 복귀</li><li><b>v8.2</b> 인컴 주기 4초·유닛 인컴 +40%, AI 시뮬레이션 미로 배치(경로 길이 계산), 내 경로 표시, 강화 버튼 개선, 관전 중 AI 성향 표시</li><li><b>v8.1</b> 유닛 16종·타워 9종 세부 3D 모델 (천둥: 테슬라 코일 / 바람: 회오리+풍차), 날갯짓·회전 애니메이션</li><li><b>v8.1</b> AI가 인컴이 목표보다 낮을수록 유닛을 더 자주 소환해요</li><li><b>v8.1</b> 매 판 내 자리가 1~8번 중 랜덤으로 배정돼요</li><li><b>v8.0</b> 7인 AI 성향 분리, 게임 시간 표시, 입구 8칸 경로 검증, 적 처치 보상</li></ul></details>
+<h3>🛠 업데이트 내역</h3><details class="card" open><summary><b>🛠 패치 노트</b> <small class="m">(눌러서 펼치기)</small></summary><ul><li><b>v17.8</b> 🎨 시조새(하늘)는 회색 돌 대신 호박색 화석으로, 티라노 병아리는 초록 대신 주황색으로 바꿔 다른 새와 헷갈리지 않게 했어요.</li><li><b>v17.7</b> 🎩 칠면조는 금 버클 순례자 모자, 철거반장 두루미는 줄무늬 안전모, 유령까마귀는 별 달린 마법사 모자로 새로 만들었어요. 🧢 알바트로스·혜성 매는 모자를 거꾸로 써서 얼굴이 잘 보여요.</li><li><b>v17.6</b> 🔥 불사조·플라즈마새 날개를 불꽃 모양으로, 🦇 볼트박쥐 날개를 진짜 박쥐 날개(뼈+막)로 바꿨어요. 이제 모든 공중 새가 새 날개를 써요. 🪶 앵무새는 빨강·파랑 긴 꼬리깃, 혜성 매는 반짝이는 혜성 꼬리가 생겼어요.</li><li><b>v17.5</b> ☁ 천둥새·폭풍독수리의 먹구름 모자를 몽글몽글한 구름(외곽선·작은 번개)으로, 🔌 천둥새·플라즈마새 꼬리의 회색 벽돌을 꼬불꼬불 전선이 달린 플러그로 바꿨어요.</li><li><b>v17.4</b> 🪶 공중 새 날개를 종류별로 새로 만들었어요 — 맹금형(까마귀·송골매·역병 까마귀·폭풍독수리·시조새·유령까마귀), 바다새형(알바트로스·눈보라 갈매기·펠리컨), 둥근 작은 새형(비둘기·앵무·혜성 매·오로라 올빼미). 날개에 있던 하늘색 팀 띠는 모두 빼고 날개 끝 깃 하나만 팀 색으로 남겼어요.</li><li><b>v17.3</b> 🦅 독수리·북극해적갈매기 날개를 맹금 날개로 바꿨어요 — 넓고 짧은 한 장에 끝이 손가락처럼 벌어진 깃 5개(해적 칼은 그대로 날개 끝에). 🪶 공중 새 꼬리도 새로 만들었어요: 부채형(비둘기·까마귀 등)·제비꼬리형(갈매기·알바트로스 등)·맹금형(독수리·송골매 등, 끝 띠무늬)·짧은형(펠리컨·박쥐). 머리 뒤 '토끼 귀'처럼 보이던 하늘색 팀 색 깃은 꼬리에서 뺐어요.</li><li><b>v17.2</b> 🌊 폭격갈매기 날개를 새로 만들었어요(시범) — 한 장으로 된 길쭉한 바다새 날개에 검은 날개 끝·검은 외곽선, V자로 살짝 들어 올렸어요. 팀 색은 날개 끝 깃 하나에만.</li><li><b>v17.1</b> 🗡 북극해적갈매기 칼을 새로 만들었어요 — 휜 은색 해적 칼(금 가드·나무 손잡이·검은 외곽선)을 오른 날개 끝에 쥐고 같이 퍼덕여요. 모자는 조금 작게, 뒤로 옮겨 얼굴이 보여요.</li><li><b>v17.0</b> ⚔ 수비 오프닝 알파고가 달라졌어요 — 처음 40~50초는 칠면조로 인컴을 열고, 그다음 초반에 새를 잘 잡는 공격형 타워(독감 물약·용암·정전기·알 새총 등)를 먼저 지어요. 파리지옥·얼음 알 같은 서포트 타워는 나중에.</li><li><b>v16.9</b> 🆕 새 알파고 10종(전봇대 줄·독 덩굴·감속 미로·3줄 요새·태양 화염·뇌운 폭풍·알 폭격·플라즈마 장인·대형 새 러시·빙뢰 첨탑) — 어려움·헬에 매 판 2~3명, 알파고 난이도엔 가장 강한 3종이 섞여요. 알파고마다 초반 오프닝이 달라요(전봇대·벽 0개·수비 타워·해적·칠면조·알·비둘기). 숙련 이상 AI는 타워를 Lv4까지 올려요(미로를 먼저 짓고). 겹치던 알파고 6종은 정리했어요.</li><li><b>v16.8</b> 🥚 알파고가 알·부화 병아리에 뚫리면 광역·연쇄 타워·참새 전봇대·감속 타워를 더 짓고, 평소에도 감속과 전봇대를 조금 더 좋아해요(사람 기록으로 210판 학습, 알파고 난이도만).</li><li><b>v16.7</b> 📋 알파고 기록이 더 자세해졌어요 — 30초마다 8명의 목숨, 내 진영에 들어온·뚫고 간 새 종류, 판 끝에 타워 종류별 피해량·개수까지 남고, 보관이 최근 20판으로 늘었어요(알파고 학습용).</li><li><b>v16.6</b> 🦃 알파고가 초반 3분을 사람처럼 써요 — 알파고마다 오프닝이 달라요(🏴☠ 해적갈매기 러시 · 해적 1마리 후 칠면조 · 🥚 알 타워 철거 후 칠면조 · 칠면조만 · 싼 타워 2개+칠면조 · 가성비 새) · 속성 조합도 서로 겹치지 않아요. 목숨이 80 아래로 떨어지거나 인컴이 충분해지면 수비로 바꿔요. 알파고 난이도에서만.</li><li><b>v16.5</b> 🧬 알파고 난이도 설명에 지금까지 학습한 판 수(약 12,400판: AI끼리 대국 + 사람 플레이 기록)를 넣었어요.</li><li><b>v16.4</b> 👆 알파고가 사람처럼 "꾹 누르기"를 해요 — 새를 고르면 남는 돈을 다 쓸 때까지 같은 새를 연속으로 보내요(싼 알은 수십 마리씩). 수비가 모자라면 타워를 먼저 지어요. 다른 난이도는 그대로예요.</li><li><b>v16.3</b> 🤖 알파고가 더 부지런해졌어요 — 0.4초 → 0.3초마다 판단하고 한 번에 2가지씩(분당 행동 약 58번 → 약 70번). 다른 난이도는 그대로예요.</li><li><b>v16.2</b> 🤖 알파고 난이도만 학습 — 사람 플레이 기록 7판을 그대로 따라 하는 연습 상대와 붙어 진화한 「알파 사람 사냥꾼」 등 8종이 먼저 나와요(연습 상대 우승 28판 중 13번 → 1번). 알파고 AI도 이제 사람처럼 수상한 알 연구(부화 등)를 써요(공평하게). 다른 난이도는 그대로예요.</li><li><b>v16.1</b> 🗺 타워를 고르면 설치 안내가 떠요 — 초록 테두리 칸은 지을 수 있는 곳, 빨간 칸은 지으면 길이 막히는 곳, 노란 점선은 지금 새가 지나갈 길(첫 탭 미리보기 칸을 놓았을 때 길로 바로 다시 그려져요). ⏸ 메뉴에서 끌 수 있어요. 다른 진영을 구경할 때는 미니맵에 🏠 내 진영이 나오고, 누르면 바로 돌아와요.</li><li><b>v16.0</b> 📱 폰 조작 2차 — 붉은 알림이 게임판 첫 줄을 가리지 않게 아래로(⏸ 메뉴에서 아래·위·끄기), 유닛 카드를 길게 누르면 연속 전송, 타워 카드를 길게 누르면 정보, 효과음·배경음악 볼륨 따로, 목숨 30 이하면 화면 테두리 빨갛게+경고, 작은 폰에서 상점 카드 크게.</li><li><b>v15.9</b> 📱 폰 조작 개선 — 뒤로가기·⏸를 누르면 일시정지 메뉴(계속하기·설정·나가기 두 번 확인), 앱을 내리면 자동 일시정지, 게임 중 화면 꺼짐 방지, 타워 2단계 설치(첫 탭 미리보기+사거리 원, 한 번 더 누르면 설치 · 메뉴에서 끄기), 진동 피드백, 버튼 크게, 마지막 난이도 기억, 실수로 화면 확대 방지, 구형 폰에서 깨지던 이모지 교체.</li><li><b>v15.8</b> 📼 알파고 난이도 플레이 기록 — 내가 지은 타워·보낸 새·속성을 폰에만 기록하고(최근 10판), 결과 화면 '📋 내 기록 보내기'로 파일을 보낼 수 있어요. 사람 전략을 배우는 알파고 학습에 써요.</li><li><b>v15.7</b> 🎯 쉬움·일반·숙련 AI의 초반 수비가 똑똑해졌어요 — 완성될 미로를 미리 계산해, 길을 많이 덮는 자리에 공격 타워 2개를 먼저 띄엄띄엄 놓고 그다음 벽으로 미로를 채워요(초반 3분 누수 약 20~40% 감소).</li><li><b>v15.6</b> 🧬 알파고 5세대 학습(660판) — 약했던 알파 안정형·방해꾼 특공대·빙결뇌전·이자형·장인이 상위 전략의 유전자를 배워 강해졌고(안정형 6.9등→3.0등, 장인 5.2등→2.3등), 상위 전략을 섞은 새 성향 「알파 5세대」가 나와요. 일반·숙련·어려움·헬 AI도 새 노하우를 배워요.</li><li><b>v15.5</b> 💀 탈락해도 새들이 한꺼번에 다음 판으로 순간이동하지 않아요 — 탈락한 판의 타워는 그대로 남아 공격만 멈추고, 새들이 걸어서 지나간 뒤 다음 판으로 넘어가요(몰림 완화).</li><li><b>v15.4</b> 🧱 후반 AI 헛손질 고침 — 두루미 복구가 빈칸 채우기로 지은 타워까지 부수고 다시 짓던 반복을 없앴고(10분 뒤 철거 4분의 1로), 빈칸 채우기는 벽 대신 길을 덮는 공격 타워만 지어요. 돈이 2만 넘게 쌓이면 새부터 보내고, 재배치 미로는 10분까지만.</li><li><b>v15.3</b> 🦩 새 독 속성 새 「플라맹독」(540G·지상·외다리): 4초마다 근처 타워에 산성 침을 퉤! → 그 타워 공격력 -30%(4초) · 흡혈박쥐새는 은퇴했어요</li><li><b>v15.2</b> 🦇 박쥐 둥지 타워를 없앴어요</li><li><b>v15.1</b> 🏰 종족 모드는 잠시 닫았어요(준비 중) · 🛒 상점 판매도 잠시 닫았어요</li><li><b>v15.0</b> 🐣 수상한 알은 보낸 지 6초 뒤 부화 · 🔋 찌릿 병아리: 타워 마비 대신 이동 속도가 가장 빨라졌어요(1.8→2.4)</li><li><b>v14.9</b> 🧱 헬·알파고 AI 빈칸 채우기 버그 수정(타워 42개 미만이면 안 채우던 문제) · 채우기 시작 시각은 AI 성향마다 달라요(수비형은 3분쯤부터, 공격·인컴형은 15분쯤부터)</li><li><b>v14.8</b> 🥚 수상한 알: 보낼수록 체력 +1이 이제 끝없이 쌓여요 · 🐣 부화는 판 중간 대신 보낸 지 2초 뒤(미로에서도 부화) · 부화한 병아리는 알 보너스 체력의 2배를 더 받아요 · 속성이 2개면 두 속성 병아리가 섞여 나와요</li><li><b>v14.7</b> 🏴☠ 북극해적갈매기 새 디자인: 둥근 해적 모자(금테·물고기 뼈 문양)·안대·휜 회색 부리·큰 해적 칼·해골 버클 허리띠와 금화 주머니·흰 날개깃</li><li><b>v14.6</b> 🏗 철거반장 두루미 대응: 흐트러진 미로를 다시 고쳐요(숙련 가끔·어려움 자주·헬·알파고 항상) · 두루미가 오면 미로 타워를 3레벨로 올려 못 들게 · 알파고는 복구할지 빈칸을 채울지 스스로 판단 · 🧱 헬·알파고 AI는 타워 한도 없이 빈칸까지 채워요(어려움 60·숙련 50) · 💰 돈이 넘치면 AI가 한 번에 더 많이 써요</li><li><b>v14.5</b> 🧠 AI가 상황을 보고 판단해요: 목숨을 잃으면 수비 모드·후반엔 공격 조금 더(상황별 전략) · 어떤 새에 뚫렸는지 기억해 그 새를 막는 타워와 출구 쪽 자리를 고름(실패에서 배우기) · 🔀 새 AI '유동 수비': 초반 중앙에 타워 4개 → 인컴 340쯤 미로로 전환 → 새는 비율을 보고 인컴/수비 선택(숙련 AI가 배움) · 새 알파고 '알파 상황판단'·'알파 유동 수비'</li><li><b>v14.4</b> 🧱 알파고 새 수비 배치: 타워 2줄·3줄 가로 뱀, 2·3줄 섞은 뱀, 2줄 뱀+직선 통로 (긴 미로와 섞어서 매 판 다르게)</li><li><b>v14.3</b> 🦉 AI가 CCTV를 미로 통로에 지어 미로를 망가뜨리던 문제 수정(이제 미로의 벽 자리에만, 벽을 CCTV로 바꾸기도 함) · ⬆ AI는 미로를 다 쌓은 뒤에 업그레이드·벽 교체를 해요</li><li><b>v14.2</b> 🧠 AI 수비가 똑똑해졌어요: 🦉 CCTV를 서로 떨어뜨려 배치 · 🧱→🏹 미로를 다 쌓으면 길 옆 벽을 공격 타워로 교체 · ♻ 쓸모없는 싼 타워를 철거하고 강한 타워로 재건 · ⬆ 길을 많이 덮는 타워부터 조금씩 업그레이드 · 🎯 들어오는 새(공중·보호막·떼·튼튼)를 보고 타워 선택 · 🤖 새 알파고 '알파 전략가'</li><li><b>v14.1</b> 🏁 결과 화면: 다시 도전·나가기·관전 버튼이 4초 뒤에 나와요(결과 먼저 보기) · 💰 총 획득 골드(인컴+처치 보상 등, 시작 돈 제외)를 결과 표와 요약에 표시</li><li><b>v14.0</b> 🤖 AI 개편: 대형 새 모으기 없앰(1~2분씩 멈추던 문제) · AI가 같은 새만 사지 않고 여러 새를 섞어 보냄 · 닭둘기(비둘기)·까마귀도 보냄 · 특수 전략 알파고 6종 추가(🦃 칠면조 철거·🕊 닭둘기 부대·🌈 잡식 인컴·🥚 수상한 알·🛡 보호막 기사단·🎭 방해꾼 특공대) · 어려움·헬 이자형 AI는 시작하자마자 알 타워를 철거하고 칠면조를 보내요</li><li><b>v13.9</b> ❄🌪 약한 타워 공격력 1.3배: 얼음 알 15→20 · 산들 풍차 14→18 · 비눗방울 기계 30→39 · 눈폭풍 소용돌이 6→8</li><li><b>v13.8</b> 🥚 수상한 알이 보낼수록 단단해져요: 알 1개 보낼 때마다 다음 알 체력 +1(최대 +100, 보낸 사람마다 따로 셈) · 🦚 공작새 치유가 체력 높은 새의 체력을 깎던 문제 수정</li><li><b>v13.7</b> 💰 AI 돈 보너스 줄임(알파고는 나와 같은 돈) · 🤖 3세대 알파고(뇌전+화염 공격형) · 🦩 AI가 후반에 돈을 모아 펠리컨·시조새 같은 대형 새를 보내요 · 🏗 철거반장 두루미가 타워를 들어 올리면 그 칸으로 길이 뚫려요!</li><li><b>v13.6</b> 🎨 속성 조합 10개마다 알파고를 따로 학습(알파 25종) · 모든 AI가 자기 속성 조합 알파고에게 배워요</li><li><b>v13.5</b> ☠⚡ 알파 독뇌전(독 앞·파리지옥 중간·뇌전 뒤 + 과자 배치) · 🔥 알파 불사조 테러(불사조 공격형) · 알파고 모드 속성이 다양해졌어요 · 🏴☠ 해적 선장 AI(초반 해적갈매기)</li><li><b>v13.4</b> 🎓 성향별 알파고 5종(알파 이자형·안정형·러시·공중함대·장인) — 일반 AI는 자기 성향 알파고에게 배워요</li><li><b>v13.3</b> 🎓 알파고가 더 공부했어요(자기 대국 2,160판, 옛 알파고 상대 우승 25%) · 알파고가 다른 AI를 가르쳐요: 일반 30% · 숙련 60% · 어려움·헬 100% 노하우 전수(쉬움은 그대로)</li><li><b>v13.2</b> 🤖 <b>알파고 모드</b>: AI끼리 1,440판을 붙여 스스로 진화한 AI 7명과 대결(우승 깃털 15) · 진화 AI 성향 8종(알파 눈사태·킬존·미로술사…)이 어려움·헬에도 섞여 나와요</li><li><b>v13.1</b> 🎚 <b>난이도 개편</b>: 모두 한 단계씩 내려가고(옛 일반=쉬움 … 옛 헬=어려움) 🔥 <b>새 헬</b>이 생겼어요 · 🐦 <b>새 대개편</b>: 🦜 앵무새는 욕해서 타워를 1.5초 삐지게(💢) · 🦤 도도새는 30% 확률로 "멸종 거부!" 부활 · 🦅 송골매는 공격 30% 회피, 부엉이 CCTV에 걸리면 📸과속 단속(벌금 +15G) · 🦩 타조는 그랑 주떼 점프 · 🐦 갈매기 똥 폭격(타워 공격 느려짐) · 🏴☠ <b>북극해적갈매기</b>(칼!) · 🦉 야근 올빼미는 이제 걸어 다니며 ☕커피로 보호막 충전 · 🦅 대머리 독수리 가발 날리기(번쩍! 타워 눈부심 😵) · 🛡 <b>보호막 개편</b>: 보호막 동안 독·화상·감속 면역, ⚡번개 공격엔 2배로 깨져요 · ❤ 새 체력바 색 = 보낸 사람 팀 색 · 🎨 불사조·빙독 펭귄·유령 까마귀·천둥새·전기 박쥐 질감, 천둥새 번개 날개 · 🦖 시조새 돌 화석 모습 · 🤖 AI가 정찰해서 공중 새·보호막 새를 쓰고, 🐝 <b>벌새 떼 폭탄</b>을 몰아 보내요 · 🏞 <b>광장 개편</b>: 속성 5구역 + 스킬 이펙트, 광장 코드로 친구 초대(최대 8명) · 🪶 진 판도 등수대로 깃털 1~2개 · 🛒 깃털 상점(개발자 응원 팩) · 🐣 제작 영웅(3D 삐약이·AI 기자, 한 달 한정) · 🎨 영웅 꾸미기(색·모자·얼굴)는 없어졌어요</li><li><b>v13.0</b> 🐥 게임판에 내 영웅 등장! 내 판 왼쪽 아래에 서 있고, 다른 판을 보러(정찰) 가면 영웅도 같이 걸어가요(👀 이름표). AI도 가끔 정찰 와요 · 🪶 영웅 깃털 해금(기본 3마리 무료, 테스트 기간엔 전부 열림) · 🌐 8인 대전 AI 난이도 선택 · 🏰 종족 모드는 베타로 따로, 종족은 전용 창에서 골라요</li><li><b>v12.9</b> 🎞 픽셀 아트 효과 업그레이드(pixelfx): 시조새 착지 땅 내려찍기 · 화염 폭풍 불기둥 · 폭풍의 눈 토네이도 · 빙결 얼음 깨짐 · 독 구름 · 플라즈마 낙뢰</li><li><b>v12.8</b> 🐦 새로운 고급 새 2종! 🏗 <b>철거반장 두루미</b>(4800G): 안전모 쓰고 멈춰서 타워를 집어 4초간 머리에 이고 걸어가요(그동안 공격 불가, 원래 자리엔 공사 고깔). Lv.2 이하는 근처 빈칸으로 옮겨 버리고(미로는 절대 안 막아요), 그 이상이거나 빈칸이 없으면 제자리에 · 🦖 <b>시조새</b>(5500G, 탈출하면 라이프 -21): 1억 5천만 년 만의 외출! 체력이 절반이 되면 깃털이 빠져 쿵 착지(주변 타워 2초 기절), 이후 털 빠진 공룡처럼 땅으로 달려요</li><li><b>v12.7</b> 🌐 온라인 손님 화면 보강: 🥚 수상한 알 개수가 세어지고 알 연구(부화·쌍둥이·황금 알…)도 적용돼요 · 오른쪽 위 미니맵에 내 새가 간 판과 진행/탈출/격추 수가 보여요 · 원형 지도에서 사람 자리는 아이디 첫 글자(노란색)로 표시</li><li><b>v12.6</b> 🌐 온라인 대전 보강: 연결 경로 찾기 서버 추가(직접 연결이 안 되면 중계 서버로), 게임 중 끊기면 자동으로 다시 연결해서 내 자리를 돌려받아요(그동안은 AI가 대신), 연결이 오래 걸리면 안내, 방장 폰이 보내는 데이터 약 40% 줄임</li><li><b>v12.5</b> 🚫 종족전에서 종족 규칙으로 못 쓰는 타워·새가 상점에서 사라지지 않고 '종족 제한' 카드로 보여요(누르면 이유 안내) · 종족 고르는 화면에도 못 쓰는 것 표시</li><li><b>v12.4</b> 🏰 종족 밸런스: 🦅 맹금 군단 새 가격 할인 -8% → -5%, 타워 가격 +12% → +16% · 🌳 숲 지킴이 타워 사거리 +0.4 → +0.5 · 🏰 둥지 연합 타워 가격 -8% → -12%</li><li><b>v12.3</b> 📢 마스코트 <b>AI</b>(Avian Influencer, 조류 인플루언서) 등장! 로비에서 둥실 떠서 소식을 전하고(누르면 한마디), 튜토리얼 안내, 조합 스킬 해금·탈락 속보, 광장 생중계, 결과 화면 인터뷰까지</li><li><b>v12.2</b> ⚖ 수비가 더 든든해졌어요: 새를 막으면 받는 처치 보상 10% → 20%, 새를 보내서 오르는 인컴은 10% 줄었어요 · 🛡 안정형 AI가 업그레이드에 돈을 덜 쏟고 똑똑하게 써요</li><li><b>v12.1</b> 🪴 새 독 속성 타워 '꿀꺽 파리지옥': 지상 새를 덥석 물어 묶고 독! 업그레이드마다 머리가 늘어 최대 3마리, Lv.4는 거의 죽은 새를 꿀꺽 · 🦇 박쥐 둥지는 공용 타워로</li><li><b>v12.0</b> 🐣 마스코트 'AI'(드론 메카 병아리) 등장! 피해 배수 30초 전과 바뀔 때 현수막을 끌고 날아와 알려 줘요 · 🔢 피해 숫자는 큰 피해·치명타만 · 💬 말하는 새는 한 번 가는 동안 3번만</li><li><b>v11.9</b> 🧠 AI 성향 35종+ (속성 조합×이자형·안정형·밸런스형, 수상한 알·공작새 치유·올인 타이밍 전략), 🔥헬에서만 정찰 카운터·킬존·재배치 미로 AI · 🦃 칠면조 '약하지만 인컴 높은 새'로 · 🩰 발레 타조 피루엣</li><li><b>v11.8</b> ✨ 조합 스킬 10종에 픽셀 이펙트(번개·증기·불꽃·얼음·눈덩이·감옥·회오리·독전류·독안개) · 🐦 공중 새 깃털 날개·몸 비율 · 🦤 각설이 도도새 타령 · 화면 대비 다듬기</li><li><b>v11.7</b> 🧸 로비·광장 영웅 삐약이를 AI 3D 모델로(시험) · 📘 첫 판 튜토리얼(설명 화면에서 다시 보기) · 🗑 설명 화면에 '처음부터 다시' 초기화 버튼 · 🦸 영웅 새 다듬기(공중 새도 서 있게, 외곽선·모자 겹침 정리) · 🎨 타조·회장닭·앵무새·펠리컨·악어새·오리·올빼미 등 3D 모습 다듬기</li><li><b>v11.6</b> 🔊 효과음을 실제 녹음 소리로: 버튼 딸깍, 건설 나무 소리, 철거 동전 짤랑, 새 쓰러짐 타격음, 라이프 피해 펀치, 탈락·후반 경고 종소리, 부화 알 깨짐, 승리·패배·해금 짧은 음악. 효과음: Kenney 오디오 팩 (CC0, kenney.nl)</li><li><b>v11.5</b> 🏝 게임판이 진짜 3D 육각 타일로! 진영마다 지형이 달라요: 🌿풀밭 · 🏜사막 · ⛰바위산 · 🪵흙 · 🏝바닷가 섬. 게임판 바깥엔 숲·언덕·산·바다·섬 타일 풍경. 3D 타일: Kenney Hexagon Kit (CC0, kenney.nl)</li><li><b>v11.4</b> 🏁 게임이 끝나면 <b>결과 표</b>: 8명의 등수(🥇🥈🥉)·인컴·상대에게 준 라이프 피해·막은 새·버틴 시간을 한눈에 (관전 후·온라인에서도). 🪶 공중 새 인컴 20% 하향 — 미로를 무시하는 대신 돈을 덜 벌어요</li><li><b>v11.3</b> 🐝 새 유닛 <b>윙윙 벌새 떼</b>(360G · 지상): 벌+벌새 모습, 5~7마리 떼로 등장, 강타형 타워(공격 간격 1.5초 이상)의 피해를 절반만 받아요 — 광역·연사 타워에 약해요. 🚌 새 유닛 <b>만원 버스 펠리컨</b>(3000G · 공중): 격추되면 부리 주머니에서 승객 새 8마리가 쏟아져 그 자리부터 걸어가요</li><li><b>v11.2</b> 🎨 만화풍 전투 화면: 상점이 3D 초상화 카드로(등급별 색 · 영웅/전설 리본, 선택하면 통통), 타워가 맞힐 때 피해 숫자가 톡톡(치명타는 노랗게), 큰 새 격추 시 "💥 격추!" 배너, 강화 타워 머리 위 ★별 뱃지, 모든 새에 만화풍 외곽선. 휴대폰이 느려지면 피해 숫자는 자동으로 꺼져요</li><li><b>v11.1</b> 🧩 난이도별 AI 미로: 🐓숙련 = 넓은 가로 뱀(길 ×1.9) · 🦅어려움 = 넓은 세로 뱀·대각선 뱀·빗살 중 하나(×2.2~2.6) · 🔥헬 = 가로 뱀·홀수 줄 가로 뱀·혼합·세로 뱀 중 하나(×2.5~3.0). 미로는 AI마다 좌우가 달라요. 헬 AI는 미로에 방해되면 가운데 알 타워도 철거해요. 미니맵으로 상대 미로를 정찰해 보세요!</li><li><b>v11.0</b> 🐍 <b>어려움·헬 AI가 뱀 모양 미로</b>를 짜요: 가로 줄을 한 줄 걸러 쌓고 끝 칸을 번갈아 비워 새가 좌우로 왕복하게 만들어요(AI마다 방향이 달라요). 시뮬레이션에서 이 방식은 우승 확률이 일반 AI의 약 2.7배(34%)였어요. 공중 새와 황새로 뚫어 보세요!</li><li><b>v10.9</b> 🎨 디자인 다듬기: 게임 화면(위쪽 바·골드 줄·탭·상점 버튼·정보 줄·옆 패널), 결과창, 도감·설명 화면을 로비와 같은 만화풍(굵은 테두리 + 그림자)으로 통일, 상점 글씨 키움. 📱 앱 아이콘(왕관 병아리)과 홈 화면에 설치하기(PWA) 지원</li><li><b>v10.8</b> 🌐 <b>8인 온라인 대전 (베타)</b>: 모드 선택 → 8인 온라인 대전 → 방 만들기로 5자리 방 코드와 초대 링크를 만들고, 친구는 코드를 넣거나 링크를 눌러 참가해요. 빈자리는 AI가 채워요. 방장 휴대폰이 게임을 계산하니 방장은 화면을 켜 두세요. (일반 모드만, 수상한 알 연구소는 방장만)</li><li><b>v10.7</b> 🐊 새 유닛 <b>악어 치과의사 악어새</b>(1600G · 타조 다음으로 튼튼): 악어를 타고 와요. 체력이 35% 아래로 떨어지면 악어가 화나서 1.6배 빨라져요(입을 쩍쩍 벌려요). 🧹 쓸데없는 몸 고리 정리: 종족 새 8종·백조·천둥새·불사조·태풍 독수리·오로라 덕후의 고리 삭제(팀 색 목걸이는 유지, 보호막은 체력바 색으로 표시)</li><li><b>v10.6</b> 🐣 부화 병아리 8종 새 모습: 둥근 병아리 몸 + 🐣 갓깬 삐약이(물음표) · 🍳 맥반석(구운 껍데기·양머리 수건) · 🍦 아이스(와플콘·소프트아이스크림) · 🔋 찌릿(정전기 머리) · 🎈 풍선(풍선 3개, 가운데는 팀 색) · 💨 방귀(기저귀·방귀 구름) · 🌟 황금(황금 껍데기·반짝이·동전) · 🦖 티라노(이빨·배 무늬)</li><li><b>v10.5</b> 🎭 새 이름·모습 변경: 🩰 <b>발레리나 지망생 타조</b>(튜튜·티아라·토슈즈) · 🎩 <b>알부자 회장닭</b>(실크햇·외알 안경·금목걸이) · 🛟 <b>피서 중인 튜브 오리</b>(튜브·선글라스·밀짚모자) · 🦜 <b>욕쟁이 앵무새</b>(날아가며 말풍선으로 세 마디!) · 🥁 <b>각설이 도도새</b>(새끼줄 머리띠·누더기·깡통·엿가위, 품바 춤) · 🥚 <b>펭귄알 소매치기</b>(남극 도둑갈매기, 펭귄알을 훔쳐 날아요)</li><li><b>v10.4</b> 👀 탈락해도 바로 끝나지 않아요: <b>관전하기</b>를 누르면 남은 AI들의 대결을 끝까지 볼 수 있어요(미니맵으로 진영 전환, 🚪 버튼으로 언제든 나가기). 탈락 화면에서 관전하기 · 다시 도전 · 나가기 중 선택</li><li><b>v10.3</b> 🎨 새 디자인 대개편: 나는 새 날개를 새 몸 색의 깃털 날개로(팀 색은 날개 끝), 땅 새는 몸 옆에 접힌 날개. 🪵 딱따구리(빨간 모자·끌 부리·쪼기 동작) · 💪 근육 타조(털 뭉치 몸·챔피언 벨트) · 🐧 펭귄 삼형제 · 🦤 도도 · 🦢 백조(S자 목) · 🦃 칠면조(중절모·부채 꼬리) · 🐥 병아리 · 🥚 수상한 알(줄무늬 양말 다리로 아장아장) 새 모양. 🦩 <b>육아휴직 황새</b>: 긴 다리로 타워를 넘어 직진. 종족 새 8종 별명 추가</li><li><b>v10.2</b> ✈ 바람 속성 2단계 타워 교체: 강풍 선풍기 → <b>비눗방울 막대</b>(새를 방울에 가둬 1.4초 둥실 띄우고, 터질 때 2배 피해 · 갇힌 지상 새는 대공 타워에도 맞아요 · 넉백 면역 새는 안 갇혀요). 진화: 비눗방울 기계 → 비눗방울 대포 → 거품 목욕탕 대왕</li><li><b>v10.1</b> 🪶 일반 모드 + 종족 모드 통합: 시작 화면에서 모드 선택, 일반 모드 승리로 깃털 코인 획득 → 코인으로 종족 모드 해금(종족 1개 무료 선택) → 이후 종족은 코인으로 해금. 첫 화면 간소화(기본 설명 4줄 + 상세보기·팁)</li><li><b>v10.0</b> 🏰 종족전: 오리지널 새 종족 4종(🏰둥지 연합 · 🦅맹금 군단 · 🌙황혼 깃털단 · 🌿숲 지킴이), 종족별 고유 특성·전용 타워 8종·전용 새 8종, 종족 도감 탭, AI도 종족을 골라 싸워요</li><li><b>v9.11</b> 🎚 난이도 5단계(🐣쉬움 · 🐥일반 · 🐓숙련 신규 · 🦅어려움 · 🔥헬). 🧬 타워 진화: 강화 Lv.1~4마다 이름과 모양이 바뀌어요(예: 알까기 새총 → 새권총 → 새개틀링건). 도감에서 진화 단계 확인. 🎨 타워 33종 모양을 이름에 맞게 새로 디자인. 정보 패널 높이 고정(보드 흔들림 수정), 부엉이 CCTV는 감지 범위 표시</li><li><b>v9.10</b> 🎚 난이도 4단계, 길찾기 좌우 편향 수정, 도감·정찰 안내</li><li><b>v9.9</b> 🍤 과자 연속 5개, 📹 부엉이 CCTV(은신 감지)</li><li><b>v9.8</b> 🔗 참새 전봇대: 지상 ×0.8 · 공중 ×2.4 감전</li><li><b>v9.7</b> 🎯 내 새 추적 미니맵(오른쪽 위)</li><li><b>v9.6</b> 🍤 과자 뿌리개, 🔗 참새 전봇대, 🥅 잠자리채 그물포 공용 타워 3종</li><li><b>v9.5</b> 🏢 스튜디오 첫 스프린트: 🔊 효과음·칩튠 배경음악, 🎨 새 표정·맵 장식·파티클, 🥚 수상한 알 연구소(한 판 단위 해금), 🧪 QA 수정</li><li><b>v9.4</b> 📖 3페이지 카드 도감, 🎭 웃긴 이름과 개그 설명</li><li><b>v9.3</b> 메모리 누수·경제 폭주 수정, 맵 7×16, 넉백 쿨다운, 알 강화 표시, 조합 스킬 10종, 5초 카운트다운, 500판 밸런스(평균 8분 50초)</li><li><b>v9.2</b> 🐛 AI 미작동 버그 수정, 🔮 속성 2개 선택 + ✨ 조합 타워·새 10종, 상점 6칸</li><li><b>v9.1</b> 🔮 속성 테크 5종, 새 9종 추가(거위·까마귀·딱따구리·백조·공작·송골매·황제펭귄·알바트로스·천둥새), 📖 조류 도감</li><li><b>v9.0</b> ⬡ 육각 타일 맵(6방향 길찾기), 유닛 체력 2배 밸런스, AI 7명 시뮬레이션 100판 학습</li><li><b>v8.3</b> 보드 확대·미니맵 우하단 이동·하단 UI 가림 수정, AI 개성화(매 판 목표·건설 순서 변화, 수시 기분 전환, 위협 반응), 8분에 타이탄 6마리를 막는 방어력 목표(화면의 🛡 100% = 목표), 정찰 중 타워 상점을 누르면 내 화면으로 복귀</li><li><b>v8.2</b> 인컴 주기 4초·유닛 인컴 +40%, AI 시뮬레이션 미로 배치(경로 길이 계산), 내 경로 표시, 강화 버튼 개선, 관전 중 AI 성향 표시</li><li><b>v8.1</b> 유닛 16종·타워 9종 세부 3D 모델 (천둥: 테슬라 코일 / 바람: 회오리+풍차), 날갯짓·회전 애니메이션</li><li><b>v8.1</b> AI가 인컴이 목표보다 낮을수록 유닛을 더 자주 소환해요</li><li><b>v8.1</b> 매 판 내 자리가 1~8번 중 랜덤으로 배정돼요</li><li><b>v8.0</b> 7인 AI 성향 분리, 게임 시간 표시, 입구 8칸 경로 검증, 적 처치 보상</li></ul></details>
 </div></div>
 <div id="dexm" class="dexm"><div class="dexh"><b>📖 새들의 도감</b><button id="dexx">✕ 닫기</button></div><div class="dext" id="dext"><button data-p="u" class="on">🐦 조류</button><button data-p="t">🏹 타워</button><button data-p="c">✨ 조합</button><button data-p="r">🏰 종족</button></div><div id="dexb" class="dexb"></div></div><div id="end"><div><div id="eT" style="font-size:44px"></div><h2 id="eH" style="margin:6px 0"></h2><p id="eP" class="m"></p><div id="eres"></div><div id="ew"></div>
 <button class="big" id="spec" style="display:none;background:#2563eb;margin-bottom:10px">👀 관전하기</button><button id="recx" style="display:none;width:100%;padding:10px;margin-bottom:10px;background:#0f766e;color:#fff;border-radius:12px">📋 내 기록 보내기</button><button class="big" id="again">다시 도전</button><br><br><button id="home" style="width:100%;padding:10px">🚪 나가기 (메인 화면)</button></div></div>

diff --git a/js/game.js b/js/game.js
@@ -88,7 +88,7 @@ const U=[
 {id:'hatch_wind',hidden:1,n:'풍선 병아리',c:60,hp:220,sp:1.8,t:'A',dm:1,inc:0,imm:['kb'],ic:'🎈',col:0x5eead4,x:'둥실 날아가요 · 넉백 면역'},
 {id:'hatch_dark',hidden:1,n:'방귀 병아리',c:60,hp:260,sp:1.7,t:'G',dm:1,inc:0,imm:['poison'],stealth:.8,ic:'💨',col:0xa3e635,x:'독 면역 · 냄새로 은신'},
 {id:'hatch_gold',hidden:1,n:'황금 병아리',c:120,hp:280,sp:1.9,t:'G',dm:1,inc:0,steal:4,ic:'🌟',col:0xfacc15,x:'탈출하면 내 인컴 +4'},
-{id:'hatch_dino',hidden:1,n:'티라노 병아리',c:400,hp:2500,sp:.9,t:'G',dm:4,inc:0,ic:'🦖',col:0x65a30d,x:'고대 유전자가 깨어났어요'},
+{id:'hatch_dino',hidden:1,n:'티라노 병아리',c:400,hp:2500,sp:.9,t:'G',dm:4,inc:0,ic:'🦖',col:0xea7f2e,x:'고대 유전자가 깨어났어요'},
 {id:'eggchief',secret:'chief',n:'알통 대장닭',c:1600,hp:1800,sp:.9,t:'G',dm:5,inc:110,lay:1,ic:'🎩',col:0xfef3c7,x:'걸으며 3초마다 수상한 알을 낳아요 (한 판에 알 100개 보내면 해금)'}];
 // ---------- 🏰 종족전: 오리지널 새 종족 4종 (전용 타워 2 + 전용 새 2 + 고유 특성) ----------
 const RACE={
@@ -1085,7 +1085,7 @@ const WHT3=new THREE.Color(0xffffff);let STX=null;function stoneTex(){if(STX)ret
  for(let i=0;i<900;i++){const v=150+Math.floor(Math.random()*100);x.fillStyle=`rgb(${v},${v},${v})`;x.fillRect(Math.random()*64|0,Math.random()*64|0,1+(Math.random()*2|0),1+(Math.random()*2|0))}
  x.strokeStyle='#6b6b6b';x.lineWidth=1;for(let i=0;i<5;i++){x.beginPath();let px=Math.random()*64,py=Math.random()*64;x.moveTo(px,py);for(let k=0;k<4;k++){px+=Math.random()*16-8;py+=Math.random()*16-8;x.lineTo(px,py)}x.stroke()}
  STX=new THREE.CanvasTexture(c);STX.wrapS=STX.wrapT=THREE.RepeatWrapping;STX.repeat.set(2,2);return STX}
-function stoneify(g,half){const R=[0x34312d,0x4c4842,0x67625a,0x827c72,0x9c968b],tmp=new THREE.Color();g.traverse(o=>{if(!o.isMesh||!o.material||o.name==='artOutl'||o.userData.noStone)return;
+function stoneify(g,half){const R=half?[0x34312d,0x4c4842,0x67625a,0x827c72,0x9c968b]:[0x3f2c1f,0x624532,0x866246,0xa8825c,0xc8a678]/* v17.8 공중 시조새: 회색 돌 → 호박색 화석(디자인 팀: 칙칙·배경에 묻힘) */,tmp=new THREE.Color();g.traverse(o=>{if(!o.isMesh||!o.material||o.name==='artOutl'||o.userData.noStone)return;
   const mats=Array.isArray(o.material)?o.material:[o.material];o.material=mats.map(m=>{if(!m.color)return m;/* 팀 색 부품은 userData.noStone으로 건너뜀 */const L=m.color.r*.3+m.color.g*.59+m.color.b*.11;const sat=Math.max(m.color.r,m.color.g,m.color.b)-Math.min(m.color.r,m.color.g,m.color.b);if(L<.06||L>.97||(!half&&m.color.g>m.color.r*1.2&&m.color.g>m.color.b*1.2)||(half&&sat>.12&&L>.75))return m;
    const n=m.clone();if(!half||sat<=.12){tmp.setHex(R[Math.min(4,Math.floor(L*5.2))]);n.color.copy(tmp)}else n.color.multiplyScalar(1.12);if('roughness'in n){n.roughness=1;n.metalness=0;n.bumpMap=stoneTex();n.bumpScale=.035}if(!n.map&&o.geometry&&o.geometry.attributes.uv)n.map=stoneTex();if('flatShading'in n)n.flatShading=true;if(n.emissive)n.emissive.setHex(0);n.needsUpdate=true;return n});if(o.material.length===1)o.material=o.material[0]})}
 /* 🎨 새 재질(질감) 상자: U의 mat:'fire'|'ice'|'ghost'|'elec'|'gold'. 코드로 그린 작은 무늬 그림 + 빛·투명도. 움직이는 재질은 m.userData.fxm에 담아 sync3에서 깜빡임 */

diff --git a/CLAUDE.md b/CLAUDE.md
@@ -161,3 +161,4 @@
 - ☁🔌 **v17.5 소품 상자 2·3호**(2026-11-20): `PROP.cloud(top,bot)`(원점=머리 꼭대기, 구 6개 merge+BackSide 외곽선+어두운 밑면+양옆 번개 Extrude) · `PROP.plug(body,cord)`(원점=꼬리 뿌리 +y 뒤쪽, CatmullRom TubeGeometry 전선+Lathe 몸통+외곽선+금 고리+은 핀 2개). A.bird에서 붙임: cloud 천둥새·폭풍독수리(H.hy, H.hz+H.hr−.02), plug 천둥새·플라즈마새(scale 1.55, rot.x .35, (0,.4,z0+.12) — 작게 두면 꼬리에 가려 안 보였음). accParts D.thunderbird/stormeagle/plasmabird의 옛 구 3개 구름·상자 플러그 삭제. 확인: 전후 시트 docs/design/07·게임 6마리 에러 0. 다음 소품 후보: capVisor·brimHat.
 - 🔥🦇 **v17.6 불꽃·박쥐 날개, 리본 꼬리**(2026-11-20 사용자 '끝까지 진행'): `fireWing`(phoenix·plasmabird: 불꽃 혀 5개 Shape(k배 축소로 심지 `firew_core` 노랑/플라즈마는 하늘색, GL 빛남)) · `batWing`(voltbat: 손목 WR(.5,-.13)에서 손가락 TIPS 4개, 오목 막 quadratic, 뼈=늘린 구, 손목 발톱 KO 팀 색). → featherWing은 이제 바람 병아리(hatch_wind)만 씀. 꼬리: parrot 빨강·파랑 리본 깃 2장(`tleaf_par`, 끝 진한 색), comet 반투명 혜성 꼬리(겉 분홍 .62·속 노랑 .85, depthWrite false). 확인: docs/design/08, 게임 6마리 에러 0.
 - 🎩 **v17.7 모자 소품**(2026-11-20): `PROP.hat({crown:'cyl'|'dome'|'cone',r,h,br,col,brimCol,band,buckle,ridge,star})`(원점=챙 평면, Lathe/반구 몸통+Cylinder 챙+외곽선) — 칠면조 cyl 순례자(버클)·demcrane dome 안전모(ridge)·ghostcrow cone 마법사(별, rotation.y .18) · `PROP.cap(col,r)`(원점=머리 중심, 반구 .4PI를 뒤로 기울임+Extrude 챙(몸 색 ×.72)+단추) — 알바트로스·혜성은 `rotation.z=PI` 거꾸로 씀(앞으로 쓰면 게임 시점에서 얼굴을 덮었음). accParts의 옛 Hm/Y/K 모자 삭제. 남은 모자: 오리·눈보라·알 대장·불 병아리·펠리컨. 확인: docs/design/09, 게임 6마리 에러 0.
+- 🎨 **v17.8 색 다듬기**(2026-11-20, 디자인 팀 1차 회의 지적): `stoneify` 전체 돌(!half, 공중 시조새) 팔레트 회색 → 호박색 화석 [0x3f2c1f…0xc8a678](반쯤 돌 half는 회색 유지) · hatch_dino col 0x65a30d→0xea7f2e. 부화 병아리 셋은 이미 소품(양머리 수건·아이스크림·뻗친 머리)으로 구분돼 그대로, 유령까마귀 투명도는 이미 .62 + v17.7 불투명 마법사 모자로 해결. 남은 것: 재질 새 무늬 크기, 시조새 착지형·티라노 알껍데기 모자 겹침, 오리·눈보라·알 대장·불 병아리·펠리컨 모자 PROP화, 박쥐 귀·목도리·컵 등 중·하 소품. 22종 최종 시트 docs/design/05_*_after.

diff --git a/docs/design/README.md b/docs/design/README.md
@@ -33,11 +33,12 @@
 | `01_sword_before_after.jpg` | v17.1 소품 상자 1호 `PROP.sword()`. 휜 커틀러스 칼날(Extrude+베벨), 은색 재질, 검은 외곽선, 반원 금 가드, 돌려 깎은(Lathe) 손잡이. 오른 날개 끝 소켓에 붙어 같이 움직임. 해적 모자는 0.85배로 줄여 얼굴이 보이게 함 |
 | `02_seawing_before_after.jpg` | v17.2 바다새형 날개(폭격갈매기). 길쭉한 한 장, 뒤쪽 깃 끝 3개 물결, 바깥 30% 검은 끝, V자로 들고 뒤로 젖힘 |
 | `03_raptor_wing_tail_before_after.jpg` | v17.3 맹금형 날개(독수리·해적갈매기). 넓고 짧은 한 장 + 손가락처럼 벌어진 끝깃 5개. 같이 바뀐 꼬리 타입(독수리 흰 꼬리·송골매·폭풍독수리) |
+| `10_fossil_dino_colors.jpg` | v17.8 색 다듬기: 공중 시조새 회색 돌 → 호박색 화석(배경 바위와 구분), 티라노 병아리 초록 → 주황(앵무·볼트박쥐 초록과 겹침 해소) |
 | `09_props_hats.jpg` | v17.7 소품 상자 4·5호: `PROP.hat()`(몸통 모양 cyl·dome·cone + 둥근 챙·띠·금 버클·안전모 줄·별, 외곽선) — 칠면조 순례자 모자, 철거반장 두루미 안전모, 유령까마귀 마법사 모자 / `PROP.cap()` 야구모자 — 알바트로스·혜성 매. 처음엔 앞으로 써서 게임 시점에서 챙이 얼굴을 덮었음 → **거꾸로 쓴 모자**로 바꿔 얼굴이 보이게 함 |
 | `08_fire_bat_wings_ribbon_tails.jpg` | v17.6 마지막 옛 날개 교체: 불꽃형 `fireWing`(불사조·플라즈마새, 불꽃 혀 5개+빛나는 심지)·박쥐형 `batWing`(볼트박쥐, 손가락 뼈 사이 오목한 막+손목 발톱). 리본 꼬리: 앵무 빨강·파랑 긴 깃 2장, 혜성 매 반투명 혜성 꼬리 |
 | `07_props_cloud_plug.jpg` | v17.5 소품 상자 2·3호: `PROP.cloud()` 먹구름 모자(몽글한 구 6개 한 덩어리+어두운 밑면+외곽선+양옆 번개, 천둥새·폭풍독수리)와 `PROP.plug()` 플러그 꼬리(꼬불꼬불 전선 Tube+Lathe 몸통+은색 핀, 천둥새·플라즈마새). 두 새가 같은 코드를 복사해 쓰던 것을 함수 하나로 합침 |
 | `06_wing_types_v17_4.jpg` | v17.4 날개 타입을 공중 새 16종에 배정: 작은 새형(비둘기)·맹금형(까마귀·폭풍독수리)·바다새형(알바트로스) 전후 |
-| `04_air_birds_A/B_before.jpg` · `05_air_birds_A/B_after.jpg` | 공중 새 22종 전체(옆·위·게임 시점). v17.2 이전 → v17.4(날개 타입·꼬리 타입 적용 뒤) |
+| `04_air_birds_A/B_before.jpg` · `05_air_birds_A/B_after.jpg` | 공중 새 22종 전체(옆·위·게임 시점). v17.2 이전 → v17.8(날개·꼬리·소품·색 다듬기 모두 적용 뒤) |
 
 ### 날개 타입 (v17.4)
 | 타입 | 모양 | 새 |
